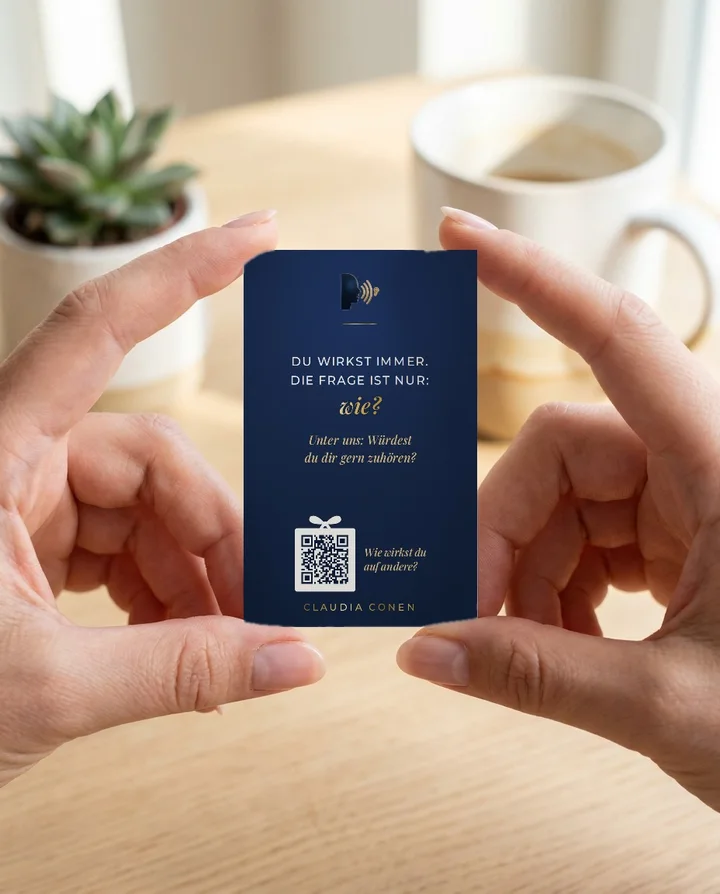
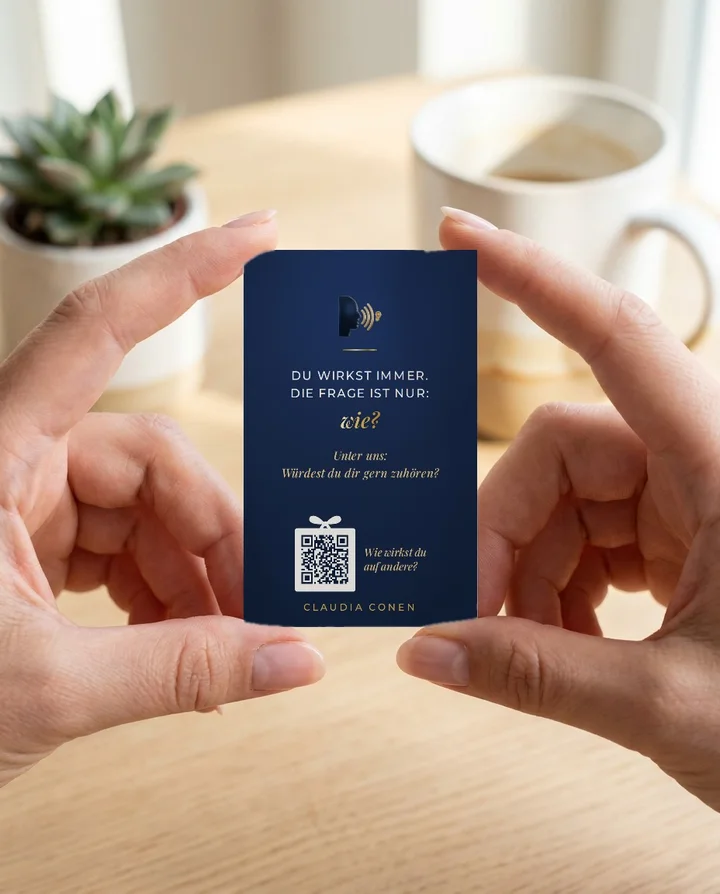
Magnet-Karten: Satz nach Sinneinheiten, ruhige Blockmitte

Changed region(s): [[0.3972, 0.302, 0.6111, 0.5436]]

diff --git a/magnet.html b/magnet.html
@@ -46,19 +46,19 @@ h1 em,h2 em{font:italic 600 1.06em/1 var(--ff-a);color:var(--gold-dunkel)}
 
 .mag{position:relative;width:calc(55*var(--mm));height:calc(85*var(--mm));overflow:hidden;box-sizing:border-box;
  background:radial-gradient(120% 80% at 50% 18%,#22396A 0%,#1A2B4C 48%,#13233F 100%);color:#fff;text-align:center;
- display:flex;flex-direction:column;align-items:center;padding:calc(5*var(--mm)) calc(4*var(--mm)) 0}
-.mag .ic{width:calc(9*var(--mm));height:calc(9*var(--mm));object-fit:contain;flex:0 0 auto}
-.mag .strich{width:calc(8*var(--mm));height:calc(.3*var(--mm));background:linear-gradient(105deg,#8E6A22 0%,#C9A447 18%,#FFF1C1 38%,#E4BC5D 50%,#9A7224 72%,#E9CF7E 88%,#8E6A22 100%);margin:calc(2.6*var(--mm)) 0 0;flex:0 0 auto}
-.mag .text{flex:1 1 auto;display:flex;flex-direction:column;justify-content:center;padding-bottom:calc(30*var(--mm))}
+ display:flex;flex-direction:column;align-items:center;padding:calc(4*var(--mm)) calc(4*var(--mm)) 0}
+.mag .ic{width:calc(10*var(--mm));height:calc(10*var(--mm));object-fit:contain;flex:0 0 auto}
+.mag .strich{width:calc(8*var(--mm));height:calc(.3*var(--mm));flex:0 0 auto;background:linear-gradient(105deg,#8E6A22 0%,#C9A447 18%,#FFF1C1 38%,#E4BC5D 50%,#9A7224 72%,#E9CF7E 88%,#8E6A22 100%);margin:calc(2.4*var(--mm)) 0 calc(3.6*var(--mm))}
+.mag .text{flex:1 1 auto;display:flex;flex-direction:column;align-items:center;justify-content:center;padding-bottom:calc(27*var(--mm))}
 .mag .z{margin:0;font:500 calc(2.8*var(--mm))/1.45 Montserrat,sans-serif;letter-spacing:.07em;text-transform:uppercase}
 .mag .z>b{display:block;font-weight:inherit;white-space:nowrap}
-.mag .gd{display:block;margin-top:calc(.8*var(--mm));font:italic 600 calc(5*var(--mm))/1.12 'Playfair Display',Georgia,serif;letter-spacing:0;text-transform:none;color:#D4AF37;text-wrap:balance}
+.mag .gd{display:block;margin-top:calc(1.2*var(--mm));font:italic 600 calc(4.8*var(--mm))/1.14 'Playfair Display',Georgia,serif;letter-spacing:0;text-transform:none;color:#D4AF37;}
 .mag .gd{background:linear-gradient(105deg,#8E6A22 0%,#C9A447 18%,#FFF1C1 38%,#E4BC5D 50%,#9A7224 72%,#E9CF7E 88%,#8E6A22 100%);-webkit-background-clip:text;background-clip:text;color:transparent;-webkit-box-decoration-break:clone;box-decoration-break:clone;filter:drop-shadow(0 calc(.15*var(--mm)) calc(.2*var(--mm)) rgba(0,0,0,.35))}
-.mag .t{margin:calc(3.2*var(--mm)) 0 0;font:italic 500 calc(2.8*var(--mm))/1.35 'Playfair Display',Georgia,serif;color:#EBD197;text-wrap:balance}
+.mag .t{margin:calc(3.4*var(--mm)) 0 0;font:italic 500 calc(2.7*var(--mm))/1.4 'Playfair Display',Georgia,serif;color:#EBD197;}
 .mag .qr{position:absolute;left:0;right:0;bottom:calc(9*var(--mm));display:flex;justify-content:center;align-items:center;gap:calc(2*var(--mm))}
 .mag .qr span{text-align:left;font:italic 500 calc(2.5*var(--mm))/1.25 'Playfair Display',Georgia,serif;color:#EBD197}
 .mag .fuss{position:absolute;left:0;right:0;bottom:calc(3.5*var(--mm));font:500 calc(2.2*var(--mm))/1 Montserrat,sans-serif;letter-spacing:.24em;color:#D4AF37}
-.mag .fuss span{background:linear-gradient(105deg,#8E6A22 0%,#C9A447 18%,#FFF1C1 38%,#E4BC5D 50%,#9A7224 72%,#E9CF7E 88%,#8E6A22 100%);-webkit-background-clip:text;background-clip:text;color:transparent}
+.mag .fuss span{color:#D9B65A}
 .mag .qr{bottom:calc(8.2*var(--mm))}
 .mag .qr i{display:block;position:relative;padding:calc(.9*var(--mm));background:#FDFBF7;border-radius:calc(.6*var(--mm))}
 .mag .qr svg{width:calc(12.5*var(--mm));height:calc(12.5*var(--mm));display:block}
@@ -115,7 +115,7 @@ footer{padding:22px 0;font-size:13px;letter-spacing:.06em;border-top:1px solid v
  </div>
 </div></section>
 
-<div class="band" id="band" tabindex="0" aria-label="Alle Sprüche, laufen langsam durch. Zum Anhalten mit der Maus darüberfahren."><div class="spur"><article class="slot" data-audio="magnet-dateien/audio/01.m4a" data-nr="01"><div class="grp">Mit Herz</div><div class="mag"><img class="ic" src="magnet-dateien/schritt-5.webp" alt=""><div class="strich"></div><div class="text"><p class="z"><b>Du wirkst immer.</b><b>Die Frage ist nur:</b><span class="gd">wie?</span></p><p class="t">Unter uns: Würdest du dir gern zuhören?</p></div><div class="qr"><i><svg class="schleife" viewBox="0 0 40 16" aria-hidden="true"><path fill="#FDFBF7" d="M20 11C15 4 6 1 5 6.5C4.3 10.5 12 12 20 11ZM20 11C25 4 34 1 35 6.5C35.7 10.5 28 12 20 11ZM17.6 10.6 13.8 16h3.4l2.8-4.2ZM22.4 10.6 26.2 16h-3.4L20 11.8Z"/><circle cx="20" cy="11" r="2.3" fill="#FDFBF7"/></svg><svg viewBox="0 0 33 33"><use href="#qr01"/></svg></i><span>Wie wirkst du<br>auf andere?</span></div><div class="fuss"><span>CLAUDIA CONEN</span></div></div></article><article class="slot" data-audio="magnet-dateien/audio/02.m4a" data-nr="02"><div class="grp">Mit Herz</div><div class="mag lang"><img class="ic" src="magnet-dateien/botschaft.webp" alt=""><div class="strich"></div><div class="text"><p class="z"><b>Was passiert,</b><b>wenn du mit mir</b><b>redest statt</b><b>zu scrollen?</b><span class="gd">Ich weiß es auch nicht.</span></p><p class="t">Vorsicht: Es könnte ein gutes Gespräch werden.</p></div><div class="qr"><i><svg class="schleife" viewBox="0 0 40 16" aria-hidden="true"><path fill="#FDFBF7" d="M20 11C15 4 6 1 5 6.5C4.3 10.5 12 12 20 11ZM20 11C25 4 34 1 35 6.5C35.7 10.5 28 12 20 11ZM17.6 10.6 13.8 16h3.4l2.8-4.2ZM22.4 10.6 26.2 16h-3.4L20 11.8Z"/><circle cx="20" cy="11" r="2.3" fill="#FDFBF7"/></svg><svg viewBox="0 0 33 33"><use href="#qr02"/></svg></i><span>Wie wirkst du<br>auf andere?</span></div><div class="fuss"><span>CLAUDIA CONEN</span></div></div></article><article class="slot" data-audio="magnet-dateien/audio/03.m4a" data-nr="03"><div class="grp">Mit Herz</div><div class="mag"><img class="ic" src="magnet-dateien/schritt-1.webp" alt=""><div class="strich"></div><div class="text"><p class="z"><b>Stell dir vor,</b><b>du bleibst für immer</b><b>in meinem Kopf.</b><span class="gd">Genau so, wie du gerade redest.</span></p><p class="t">Vorsicht: Du könntest begeistern. Oder eben nicht.</p></div><div class="qr"><i><svg class="schleife" viewBox="0 0 40 16" aria-hidden="true"><path fill="#FDFBF7" d="M20 11C15 4 6 1 5 6.5C4.3 10.5 12 12 20 11ZM20 11C25 4 34 1 35 6.5C35.7 10.5 28 12 20 11ZM17.6 10.6 13.8 16h3.4l2.8-4.2ZM22.4 10.6 26.2 16h-3.4L20 11.8Z"/><circle cx="20" cy="11" r="2.3" fill="#FDFBF7"/></svg><svg viewBox="0 0 33 33"><use href="#qr03"/></svg></i><span>Wie wirkst du<br>auf andere?</span></div><div class="fuss"><span>CLAUDIA CONEN</span></div></div></article><article class="slot" data-audio="magnet-dateien/audio/04.m4a" data-nr="04"><div class="grp">Mit Herz</div><div class="mag"><img class="ic" src="magnet-dateien/schritt-7.webp" alt=""><div class="strich"></div><div class="text"><p class="z"><b>Sei so freundlich</b><b>wie deine KI.</b><span class="gd">Dann reden wir.</span></p><p class="t">Vorsicht: Menschen merken den Unterschied.</p></div><div class="qr"><i><svg class="schleife" viewBox="0 0 40 16" aria-hidden="true"><path fill="#FDFBF7" d="M20 11C15 4 6 1 5 6.5C4.3 10.5 12 12 20 11ZM20 11C25 4 34 1 35 6.5C35.7 10.5 28 12 20 11ZM17.6 10.6 13.8 16h3.4l2.8-4.2ZM22.4 10.6 26.2 16h-3.4L20 11.8Z"/><circle cx="20" cy="11" r="2.3" fill="#FDFBF7"/></svg><svg viewBox="0 0 33 33"><use href="#qr04"/></svg></i><span>Wie wirkst du<br>auf andere?</span></div><div class="fuss"><span>CLAUDIA CONEN</span></div></div></article><article class="slot" data-audio="magnet-dateien/audio/05.m4a" data-nr="05"><div class="grp">Mit Herz</div><div class="mag"><img class="ic" src="magnet-dateien/schritt-3.webp" alt=""><div class="strich"></div><div class="text"><p class="z"><b>Was würdest du tun,</b><b>wenn du einzigartig</b><b>auf dieser Welt wärst?</b><span class="gd">Dann mach’s doch.</span></p><p class="t">Vorsicht: Du bist es schon.</p></div><div class="qr"><i><svg class="schleife" viewBox="0 0 40 16" aria-hidden="true"><path fill="#FDFBF7" d="M20 11C15 4 6 1 5 6.5C4.3 10.5 12 12 20 11ZM20 11C25 4 34 1 35 6.5C35.7 10.5 28 12 20 11ZM17.6 10.6 13.8 16h3.4l2.8-4.2ZM22.4 10.6 26.2 16h-3.4L20 11.8Z"/><circle cx="20" cy="11" r="2.3" fill="#FDFBF7"/></svg><svg viewBox="0 0 33 33"><use href="#qr05"/></svg></i><span>Wie wirkst du<br>auf andere?</span></div><div class="fuss"><span>CLAUDIA CONEN</span></div></div></article><article class="slot" data-audio="magnet-dateien/audio/06.m4a" data-nr="06"><div class="grp">Mit Herz</div><div class="mag"><img class="ic" src="magnet-dateien/schritt-8.webp" alt=""><div class="strich"></div><div class="text"><p class="z"><b>Menschen haben</b><span class="gd">keine Reset-Taste.</span></p><p class="t">Also: Bitte freundlich.</p></div><div class="qr"><i><svg class="schleife" viewBox="0 0 40 16" aria-hidden="true"><path fill="#FDFBF7" d="M20 11C15 4 6 1 5 6.5C4.3 10.5 12 12 20 11ZM20 11C25 4 34 1 35 6.5C35.7 10.5 28 12 20 11ZM17.6 10.6 13.8 16h3.4l2.8-4.2ZM22.4 10.6 26.2 16h-3.4L20 11.8Z"/><circle cx="20" cy="11" r="2.3" fill="#FDFBF7"/></svg><svg viewBox="0 0 33 33"><use href="#qr06"/></svg></i><span>Wie wirkst du<br>auf andere?</span></div><div class="fuss"><span>CLAUDIA CONEN</span></div></div></article><article class="slot" data-audio="magnet-dateien/audio/07.m4a" data-nr="07"><div class="grp">Mit Biss</div><div class="mag"><img class="ic" src="magnet-dateien/geschenk.webp" alt=""><div class="strich"></div><div class="text"><p class="z"><b>Kompetenz: vorhanden.</b><b>Wirkung:</b><span class="gd">wird nachgeliefert.</span></p><p class="t">Vorsicht: Lieferzeit unbekannt.</p></div><div class="qr"><i><svg class="schleife" viewBox="0 0 40 16" aria-hidden="true"><path fill="#FDFBF7" d="M20 11C15 4 6 1 5 6.5C4.3 10.5 12 12 20 11ZM20 11C25 4 34 1 35 6.5C35.7 10.5 28 12 20 11ZM17.6 10.6 13.8 16h3.4l2.8-4.2ZM22.4 10.6 26.2 16h-3.4L20 11.8Z"/><circle cx="20" cy="11" r="2.3" fill="#FDFBF7"/></svg><svg viewBox="0 0 33 33"><use href="#qr07"/></svg></i><span>Wie wirkst du<br>auf andere?</span></div><div class="fuss"><span>CLAUDIA CONEN</span></div></div></article><article class="slot" data-audio="magnet-dateien/audio/08.m4a" data-nr="08"><div class="grp">Mit Biss</div><div class="mag"><img class="ic" src="magnet-dateien/ki.webp" alt=""><div class="strich"></div><div class="text"><p class="z"><b>Du klingst</b><b>wie ein Prompt.</b><span class="gd">Nur nicht so freundlich.</span></p></div><div class="qr"><i><svg class="schleife" viewBox="0 0 40 16" aria-hidden="true"><path fill="#FDFBF7" d="M20 11C15 4 6 1 5 6.5C4.3 10.5 12 12 20 11ZM20 11C25 4 34 1 35 6.5C35.7 10.5 28 12 20 11ZM17.6 10.6 13.8 16h3.4l2.8-4.2ZM22.4 10.6 26.2 16h-3.4L20 11.8Z"/><circle cx="20" cy="11" r="2.3" fill="#FDFBF7"/></svg><svg viewBox="0 0 33 33"><use href="#qr08"/></svg></i><span>Wie wirkst du<br>auf andere?</span></div><div class="fuss"><span>CLAUDIA CONEN</span></div></div></article><article class="slot" data-audio="magnet-dateien/audio/09.m4a" data-nr="09"><div class="grp">Mit Biss</div><div class="mag"><img class="ic" src="magnet-dateien/schritt-9.webp" alt=""><div class="strich"></div><div class="text"><p class="z"><b>Dein Pitch</b><b>war super.</b><span class="gd">Hat nur keiner verstanden.</span></p></div><div class="qr"><i><svg class="schleife" viewBox="0 0 40 16" aria-hidden="true"><path fill="#FDFBF7" d="M20 11C15 4 6 1 5 6.5C4.3 10.5 12 12 20 11ZM20 11C25 4 34 1 35 6.5C35.7 10.5 28 12 20 11ZM17.6 10.6 13.8 16h3.4l2.8-4.2ZM22.4 10.6 26.2 16h-3.4L20 11.8Z"/><circle cx="20" cy="11" r="2.3" fill="#FDFBF7"/></svg><svg viewBox="0 0 33 33"><use href="#qr09"/></svg></i><span>Wie wirkst du<br>auf andere?</span></div><div class="fuss"><span>CLAUDIA CONEN</span></div></div></article><article class="slot" data-audio="magnet-dateien/audio/10.m4a" data-nr="10"><div class="grp">Mit Biss</div><div class="mag"><img class="ic" src="magnet-dateien/praesenz.webp" alt=""><div class="strich"></div><div class="text"><p class="z"><b>Kamera an,</b><b>Persönlichkeit aus?</b><span class="gd">Warum redest du jetzt so anders?</span></p></div><div class="qr"><i><svg class="schleife" viewBox="0 0 40 16" aria-hidden="true"><path fill="#FDFBF7" d="M20 11C15 4 6 1 5 6.5C4.3 10.5 12 12 20 11ZM20 11C25 4 34 1 35 6.5C35.7 10.5 28 12 20 11ZM17.6 10.6 13.8 16h3.4l2.8-4.2ZM22.4 10.6 26.2 16h-3.4L20 11.8Z"/><circle cx="20" cy="11" r="2.3" fill="#FDFBF7"/></svg><svg viewBox="0 0 33 33"><use href="#qr10"/></svg></i><span>Wie wirkst du<br>auf andere?</span></div><div class="fuss"><span>CLAUDIA CONEN</span></div></div></article><article class="slot" data-audio="magnet-dateien/audio/01.m4a" data-nr="01" aria-hidden="true"><div class="grp">Mit Herz</div><div class="mag"><img class="ic" src="magnet-dateien/schritt-5.webp" alt=""><div class="strich"></div><div class="text"><p class="z"><b>Du wirkst immer.</b><b>Die Frage ist nur:</b><span class="gd">wie?</span></p><p class="t">Unter uns: Würdest du dir gern zuhören?</p></div><div class="qr"><i><svg class="schleife" viewBox="0 0 40 16" aria-hidden="true"><path fill="#FDFBF7" d="M20 11C15 4 6 1 5 6.5C4.3 10.5 12 12 20 11ZM20 11C25 4 34 1 35 6.5C35.7 10.5 28 12 20 11ZM17.6 10.6 13.8 16h3.4l2.8-4.2ZM22.4 10.6 26.2 16h-3.4L20 11.8Z"/><circle cx="20" cy="11" r="2.3" fill="#FDFBF7"/></svg><svg viewBox="0 0 33 33"><use href="#qr01"/></svg></i><span>Wie wirkst du<br>auf andere?</span></div><div class="fuss"><span>CLAUDIA CONEN</span></div></div></article><article class="slot" data-audio="magnet-dateien/audio/02.m4a" data-nr="02" aria-hidden="true"><div class="grp">Mit Herz</div><div class="mag lang"><img class="ic" src="magnet-dateien/botschaft.webp" alt=""><div class="strich"></div><div class="text"><p class="z"><b>Was passiert,</b><b>wenn du mit mir</b><b>redest statt</b><b>zu scrollen?</b><span class="gd">Ich weiß es auch nicht.</span></p><p class="t">Vorsicht: Es könnte ein gutes Gespräch werden.</p></div><div class="qr"><i><svg class="schleife" viewBox="0 0 40 16" aria-hidden="true"><path fill="#FDFBF7" d="M20 11C15 4 6 1 5 6.5C4.3 10.5 12 12 20 11ZM20 11C25 4 34 1 35 6.5C35.7 10.5 28 12 20 11ZM17.6 10.6 13.8 16h3.4l2.8-4.2ZM22.4 10.6 26.2 16h-3.4L20 11.8Z"/><circle cx="20" cy="11" r="2.3" fill="#FDFBF7"/></svg><svg viewBox="0 0 33 33"><use href="#qr02"/></svg></i><span>Wie wirkst du<br>auf andere?</span></div><div class="fuss"><span>CLAUDIA CONEN</span></div></div></article><article class="slot" data-audio="magnet-dateien/audio/03.m4a" data-nr="03" aria-hidden="true"><div class="grp">Mit Herz</div><div class="mag"><img class="ic" src="magnet-dateien/schritt-1.webp" alt=""><div class="strich"></div><div class="text"><p class="z"><b>Stell dir vor,</b><b>du bleibst für immer</b><b>in meinem Kopf.</b><span class="gd">Genau so, wie du gerade redest.</span></p><p class="t">Vorsicht: Du könntest begeistern. Oder eben nicht.</p></div><div class="qr"><i><svg class="schleife" viewBox="0 0 40 16" aria-hidden="true"><path fill="#FDFBF7" d="M20 11C15 4 6 1 5 6.5C4.3 10.5 12 12 20 11ZM20 11C25 4 34 1 35 6.5C35.7 10.5 28 12 20 11ZM17.6 10.6 13.8 16h3.4l2.8-4.2ZM22.4 10.6 26.2 16h-3.4L20 11.8Z"/><circle cx="20" cy="11" r="2.3" fill="#FDFBF7"/></svg><svg viewBox="0 0 33 33"><use href="#qr03"/></svg></i><span>Wie wirkst du<br>auf andere?</span></div><div class="fuss"><span>CLAUDIA CONEN</span></div></div></article><article class="slot" data-audio="magnet-dateien/audio/04.m4a" data-nr="04" aria-hidden="true"><div class="grp">Mit Herz</div><div class="mag"><img class="ic" src="magnet-dateien/schritt-7.webp" alt=""><div class="strich"></div><div class="text"><p class="z"><b>Sei so freundlich</b><b>wie deine KI.</b><span class="gd">Dann reden wir.</span></p><p class="t">Vorsicht: Menschen merken den Unterschied.</p></div><div class="qr"><i><svg class="schleife" viewBox="0 0 40 16" aria-hidden="true"><path fill="#FDFBF7" d="M20 11C15 4 6 1 5 6.5C4.3 10.5 12 12 20 11ZM20 11C25 4 34 1 35 6.5C35.7 10.5 28 12 20 11ZM17.6 10.6 13.8 16h3.4l2.8-4.2ZM22.4 10.6 26.2 16h-3.4L20 11.8Z"/><circle cx="20" cy="11" r="2.3" fill="#FDFBF7"/></svg><svg viewBox="0 0 33 33"><use href="#qr04"/></svg></i><span>Wie wirkst du<br>auf andere?</span></div><div class="fuss"><span>CLAUDIA CONEN</span></div></div></article><article class="slot" data-audio="magnet-dateien/audio/05.m4a" data-nr="05" aria-hidden="true"><div class="grp">Mit Herz</div><div class="mag"><img class="ic" src="magnet-dateien/schritt-3.webp" alt=""><div class="strich"></div><div class="text"><p class="z"><b>Was würdest du tun,</b><b>wenn du einzigartig</b><b>auf dieser Welt wärst?</b><span class="gd">Dann mach’s doch.</span></p><p class="t">Vorsicht: Du bist es schon.</p></div><div class="qr"><i><svg class="schleife" viewBox="0 0 40 16" aria-hidden="true"><path fill="#FDFBF7" d="M20 11C15 4 6 1 5 6.5C4.3 10.5 12 12 20 11ZM20 11C25 4 34 1 35 6.5C35.7 10.5 28 12 20 11ZM17.6 10.6 13.8 16h3.4l2.8-4.2ZM22.4 10.6 26.2 16h-3.4L20 11.8Z"/><circle cx="20" cy="11" r="2.3" fill="#FDFBF7"/></svg><svg viewBox="0 0 33 33"><use href="#qr05"/></svg></i><span>Wie wirkst du<br>auf andere?</span></div><div class="fuss"><span>CLAUDIA CONEN</span></div></div></article><article class="slot" data-audio="magnet-dateien/audio/06.m4a" data-nr="06" aria-hidden="true"><div class="grp">Mit Herz</div><div class="mag"><img class="ic" src="magnet-dateien/schritt-8.webp" alt=""><div class="strich"></div><div class="text"><p class="z"><b>Menschen haben</b><span class="gd">keine Reset-Taste.</span></p><p class="t">Also: Bitte freundlich.</p></div><div class="qr"><i><svg class="schleife" viewBox="0 0 40 16" aria-hidden="true"><path fill="#FDFBF7" d="M20 11C15 4 6 1 5 6.5C4.3 10.5 12 12 20 11ZM20 11C25 4 34 1 35 6.5C35.7 10.5 28 12 20 11ZM17.6 10.6 13.8 16h3.4l2.8-4.2ZM22.4 10.6 26.2 16h-3.4L20 11.8Z"/><circle cx="20" cy="11" r="2.3" fill="#FDFBF7"/></svg><svg viewBox="0 0 33 33"><use href="#qr06"/></svg></i><span>Wie wirkst du<br>auf andere?</span></div><div class="fuss"><span>CLAUDIA CONEN</span></div></div></article><article class="slot" data-audio="magnet-dateien/audio/07.m4a" data-nr="07" aria-hidden="true"><div class="grp">Mit Biss</div><div class="mag"><img class="ic" src="magnet-dateien/geschenk.webp" alt=""><div class="strich"></div><div class="text"><p class="z"><b>Kompetenz: vorhanden.</b><b>Wirkung:</b><span class="gd">wird nachgeliefert.</span></p><p class="t">Vorsicht: Lieferzeit unbekannt.</p></div><div class="qr"><i><svg class="schleife" viewBox="0 0 40 16" aria-hidden="true"><path fill="#FDFBF7" d="M20 11C15 4 6 1 5 6.5C4.3 10.5 12 12 20 11ZM20 11C25 4 34 1 35 6.5C35.7 10.5 28 12 20 11ZM17.6 10.6 13.8 16h3.4l2.8-4.2ZM22.4 10.6 26.2 16h-3.4L20 11.8Z"/><circle cx="20" cy="11" r="2.3" fill="#FDFBF7"/></svg><svg viewBox="0 0 33 33"><use href="#qr07"/></svg></i><span>Wie wirkst du<br>auf andere?</span></div><div class="fuss"><span>CLAUDIA CONEN</span></div></div></article><article class="slot" data-audio="magnet-dateien/audio/08.m4a" data-nr="08" aria-hidden="true"><div class="grp">Mit Biss</div><div class="mag"><img class="ic" src="magnet-dateien/ki.webp" alt=""><div class="strich"></div><div class="text"><p class="z"><b>Du klingst</b><b>wie ein Prompt.</b><span class="gd">Nur nicht so freundlich.</span></p></div><div class="qr"><i><svg class="schleife" viewBox="0 0 40 16" aria-hidden="true"><path fill="#FDFBF7" d="M20 11C15 4 6 1 5 6.5C4.3 10.5 12 12 20 11ZM20 11C25 4 34 1 35 6.5C35.7 10.5 28 12 20 11ZM17.6 10.6 13.8 16h3.4l2.8-4.2ZM22.4 10.6 26.2 16h-3.4L20 11.8Z"/><circle cx="20" cy="11" r="2.3" fill="#FDFBF7"/></svg><svg viewBox="0 0 33 33"><use href="#qr08"/></svg></i><span>Wie wirkst du<br>auf andere?</span></div><div class="fuss"><span>CLAUDIA CONEN</span></div></div></article><article class="slot" data-audio="magnet-dateien/audio/09.m4a" data-nr="09" aria-hidden="true"><div class="grp">Mit Biss</div><div class="mag"><img class="ic" src="magnet-dateien/schritt-9.webp" alt=""><div class="strich"></div><div class="text"><p class="z"><b>Dein Pitch</b><b>war super.</b><span class="gd">Hat nur keiner verstanden.</span></p></div><div class="qr"><i><svg class="schleife" viewBox="0 0 40 16" aria-hidden="true"><path fill="#FDFBF7" d="M20 11C15 4 6 1 5 6.5C4.3 10.5 12 12 20 11ZM20 11C25 4 34 1 35 6.5C35.7 10.5 28 12 20 11ZM17.6 10.6 13.8 16h3.4l2.8-4.2ZM22.4 10.6 26.2 16h-3.4L20 11.8Z"/><circle cx="20" cy="11" r="2.3" fill="#FDFBF7"/></svg><svg viewBox="0 0 33 33"><use href="#qr09"/></svg></i><span>Wie wirkst du<br>auf andere?</span></div><div class="fuss"><span>CLAUDIA CONEN</span></div></div></article><article class="slot" data-audio="magnet-dateien/audio/10.m4a" data-nr="10" aria-hidden="true"><div class="grp">Mit Biss</div><div class="mag"><img class="ic" src="magnet-dateien/praesenz.webp" alt=""><div class="strich"></div><div class="text"><p class="z"><b>Kamera an,</b><b>Persönlichkeit aus?</b><span class="gd">Warum redest du jetzt so anders?</span></p></div><div class="qr"><i><svg class="schleife" viewBox="0 0 40 16" aria-hidden="true"><path fill="#FDFBF7" d="M20 11C15 4 6 1 5 6.5C4.3 10.5 12 12 20 11ZM20 11C25 4 34 1 35 6.5C35.7 10.5 28 12 20 11ZM17.6 10.6 13.8 16h3.4l2.8-4.2ZM22.4 10.6 26.2 16h-3.4L20 11.8Z"/><circle cx="20" cy="11" r="2.3" fill="#FDFBF7"/></svg><svg viewBox="0 0 33 33"><use href="#qr10"/></svg></i><span>Wie wirkst du<br>auf andere?</span></div><div class="fuss"><span>CLAUDIA CONEN</span></div></div></article></div></div>
+<div class="band" id="band" tabindex="0" aria-label="Alle Sprüche, laufen langsam durch. Zum Anhalten mit der Maus darüberfahren."><div class="spur"><article class="slot" data-audio="magnet-dateien/audio/01.m4a" data-nr="01"><div class="grp">Mit Herz</div><div class="mag"><div class="text"><img class="ic" src="magnet-dateien/schritt-5.webp" alt=""><div class="strich"></div><p class="z"><b>Du wirkst immer.</b><b>Die Frage ist nur:</b><span class="gd">wie?</span></p><p class="t">Unter uns:<br>Würdest du dir gern zuhören?</p></div><div class="qr"><i><svg class="schleife" viewBox="0 0 40 16" aria-hidden="true"><path fill="#FDFBF7" d="M20 11C15 4 6 1 5 6.5C4.3 10.5 12 12 20 11ZM20 11C25 4 34 1 35 6.5C35.7 10.5 28 12 20 11ZM17.6 10.6 13.8 16h3.4l2.8-4.2ZM22.4 10.6 26.2 16h-3.4L20 11.8Z"/><circle cx="20" cy="11" r="2.3" fill="#FDFBF7"/></svg><svg viewBox="0 0 33 33"><use href="#qr01"/></svg></i><span>Wie wirkst du<br>auf andere?</span></div><div class="fuss"><span>CLAUDIA CONEN</span></div></div></article><article class="slot" data-audio="magnet-dateien/audio/02.m4a" data-nr="02"><div class="grp">Mit Herz</div><div class="mag"><div class="text"><img class="ic" src="magnet-dateien/botschaft.webp" alt=""><div class="strich"></div><p class="z"><b>Was passiert,</b><b>wenn du mit mir redest</b><b>statt zu scrollen?</b><span class="gd">Ich weiß es<br>auch nicht.</span></p><p class="t">Vorsicht: Es könnte<br>ein gutes Gespräch werden.</p></div><div class="qr"><i><svg class="schleife" viewBox="0 0 40 16" aria-hidden="true"><path fill="#FDFBF7" d="M20 11C15 4 6 1 5 6.5C4.3 10.5 12 12 20 11ZM20 11C25 4 34 1 35 6.5C35.7 10.5 28 12 20 11ZM17.6 10.6 13.8 16h3.4l2.8-4.2ZM22.4 10.6 26.2 16h-3.4L20 11.8Z"/><circle cx="20" cy="11" r="2.3" fill="#FDFBF7"/></svg><svg viewBox="0 0 33 33"><use href="#qr02"/></svg></i><span>Wie wirkst du<br>auf andere?</span></div><div class="fuss"><span>CLAUDIA CONEN</span></div></div></article><article class="slot" data-audio="magnet-dateien/audio/03.m4a" data-nr="03"><div class="grp">Mit Herz</div><div class="mag"><div class="text"><img class="ic" src="magnet-dateien/schritt-1.webp" alt=""><div class="strich"></div><p class="z"><b>Stell dir vor,</b><b>du bleibst für immer</b><b>in meinem Kopf.</b><span class="gd">Genau so,<br>wie du gerade redest.</span></p><p class="t">Vorsicht: Du könntest begeistern.<br>Oder eben nicht.</p></div><div class="qr"><i><svg class="schleife" viewBox="0 0 40 16" aria-hidden="true"><path fill="#FDFBF7" d="M20 11C15 4 6 1 5 6.5C4.3 10.5 12 12 20 11ZM20 11C25 4 34 1 35 6.5C35.7 10.5 28 12 20 11ZM17.6 10.6 13.8 16h3.4l2.8-4.2ZM22.4 10.6 26.2 16h-3.4L20 11.8Z"/><circle cx="20" cy="11" r="2.3" fill="#FDFBF7"/></svg><svg viewBox="0 0 33 33"><use href="#qr03"/></svg></i><span>Wie wirkst du<br>auf andere?</span></div><div class="fuss"><span>CLAUDIA CONEN</span></div></div></article><article class="slot" data-audio="magnet-dateien/audio/04.m4a" data-nr="04"><div class="grp">Mit Herz</div><div class="mag"><div class="text"><img class="ic" src="magnet-dateien/schritt-7.webp" alt=""><div class="strich"></div><p class="z"><b>Sei so freundlich</b><b>wie deine KI.</b><span class="gd">Dann reden wir.</span></p><p class="t">Vorsicht:<br>Menschen merken den Unterschied.</p></div><div class="qr"><i><svg class="schleife" viewBox="0 0 40 16" aria-hidden="true"><path fill="#FDFBF7" d="M20 11C15 4 6 1 5 6.5C4.3 10.5 12 12 20 11ZM20 11C25 4 34 1 35 6.5C35.7 10.5 28 12 20 11ZM17.6 10.6 13.8 16h3.4l2.8-4.2ZM22.4 10.6 26.2 16h-3.4L20 11.8Z"/><circle cx="20" cy="11" r="2.3" fill="#FDFBF7"/></svg><svg viewBox="0 0 33 33"><use href="#qr04"/></svg></i><span>Wie wirkst du<br>auf andere?</span></div><div class="fuss"><span>CLAUDIA CONEN</span></div></div></article><article class="slot" data-audio="magnet-dateien/audio/05.m4a" data-nr="05"><div class="grp">Mit Herz</div><div class="mag"><div class="text"><img class="ic" src="magnet-dateien/schritt-3.webp" alt=""><div class="strich"></div><p class="z"><b>Was würdest du tun,</b><b>wenn du einzigartig</b><b>auf dieser Welt wärst?</b><span class="gd">Dann mach’s doch.</span></p><p class="t">Vorsicht: Du bist es schon.</p></div><div class="qr"><i><svg class="schleife" viewBox="0 0 40 16" aria-hidden="true"><path fill="#FDFBF7" d="M20 11C15 4 6 1 5 6.5C4.3 10.5 12 12 20 11ZM20 11C25 4 34 1 35 6.5C35.7 10.5 28 12 20 11ZM17.6 10.6 13.8 16h3.4l2.8-4.2ZM22.4 10.6 26.2 16h-3.4L20 11.8Z"/><circle cx="20" cy="11" r="2.3" fill="#FDFBF7"/></svg><svg viewBox="0 0 33 33"><use href="#qr05"/></svg></i><span>Wie wirkst du<br>auf andere?</span></div><div class="fuss"><span>CLAUDIA CONEN</span></div></div></article><article class="slot" data-audio="magnet-dateien/audio/06.m4a" data-nr="06"><div class="grp">Mit Herz</div><div class="mag"><div class="text"><img class="ic" src="magnet-dateien/schritt-8.webp" alt=""><div class="strich"></div><p class="z"><b>Menschen haben</b><span class="gd">keine Reset-Taste.</span></p><p class="t">Also: Bitte freundlich.</p></div><div class="qr"><i><svg class="schleife" viewBox="0 0 40 16" aria-hidden="true"><path fill="#FDFBF7" d="M20 11C15 4 6 1 5 6.5C4.3 10.5 12 12 20 11ZM20 11C25 4 34 1 35 6.5C35.7 10.5 28 12 20 11ZM17.6 10.6 13.8 16h3.4l2.8-4.2ZM22.4 10.6 26.2 16h-3.4L20 11.8Z"/><circle cx="20" cy="11" r="2.3" fill="#FDFBF7"/></svg><svg viewBox="0 0 33 33"><use href="#qr06"/></svg></i><span>Wie wirkst du<br>auf andere?</span></div><div class="fuss"><span>CLAUDIA CONEN</span></div></div></article><article class="slot" data-audio="magnet-dateien/audio/07.m4a" data-nr="07"><div class="grp">Mit Biss</div><div class="mag"><div class="text"><img class="ic" src="magnet-dateien/geschenk.webp" alt=""><div class="strich"></div><p class="z"><b>Kompetenz: vorhanden.</b><b>Wirkung:</b><span class="gd">wird nachgeliefert.</span></p><p class="t">Vorsicht: Lieferzeit unbekannt.</p></div><div class="qr"><i><svg class="schleife" viewBox="0 0 40 16" aria-hidden="true"><path fill="#FDFBF7" d="M20 11C15 4 6 1 5 6.5C4.3 10.5 12 12 20 11ZM20 11C25 4 34 1 35 6.5C35.7 10.5 28 12 20 11ZM17.6 10.6 13.8 16h3.4l2.8-4.2ZM22.4 10.6 26.2 16h-3.4L20 11.8Z"/><circle cx="20" cy="11" r="2.3" fill="#FDFBF7"/></svg><svg viewBox="0 0 33 33"><use href="#qr07"/></svg></i><span>Wie wirkst du<br>auf andere?</span></div><div class="fuss"><span>CLAUDIA CONEN</span></div></div></article><article class="slot" data-audio="magnet-dateien/audio/08.m4a" data-nr="08"><div class="grp">Mit Biss</div><div class="mag"><div class="text"><img class="ic" src="magnet-dateien/ki.webp" alt=""><div class="strich"></div><p class="z"><b>Du klingst</b><b>wie ein Prompt.</b><span class="gd">Nur nicht<br>so freundlich.</span></p></div><div class="qr"><i><svg class="schleife" viewBox="0 0 40 16" aria-hidden="true"><path fill="#FDFBF7" d="M20 11C15 4 6 1 5 6.5C4.3 10.5 12 12 20 11ZM20 11C25 4 34 1 35 6.5C35.7 10.5 28 12 20 11ZM17.6 10.6 13.8 16h3.4l2.8-4.2ZM22.4 10.6 26.2 16h-3.4L20 11.8Z"/><circle cx="20" cy="11" r="2.3" fill="#FDFBF7"/></svg><svg viewBox="0 0 33 33"><use href="#qr08"/></svg></i><span>Wie wirkst du<br>auf andere?</span></div><div class="fuss"><span>CLAUDIA CONEN</span></div></div></article><article class="slot" data-audio="magnet-dateien/audio/09.m4a" data-nr="09"><div class="grp">Mit Biss</div><div class="mag"><div class="text"><img class="ic" src="magnet-dateien/schritt-9.webp" alt=""><div class="strich"></div><p class="z"><b>Dein Pitch war super.</b><span class="gd">Hat nur keiner<br>verstanden.</span></p></div><div class="qr"><i><svg class="schleife" viewBox="0 0 40 16" aria-hidden="true"><path fill="#FDFBF7" d="M20 11C15 4 6 1 5 6.5C4.3 10.5 12 12 20 11ZM20 11C25 4 34 1 35 6.5C35.7 10.5 28 12 20 11ZM17.6 10.6 13.8 16h3.4l2.8-4.2ZM22.4 10.6 26.2 16h-3.4L20 11.8Z"/><circle cx="20" cy="11" r="2.3" fill="#FDFBF7"/></svg><svg viewBox="0 0 33 33"><use href="#qr09"/></svg></i><span>Wie wirkst du<br>auf andere?</span></div><div class="fuss"><span>CLAUDIA CONEN</span></div></div></article><article class="slot" data-audio="magnet-dateien/audio/10.m4a" data-nr="10"><div class="grp">Mit Biss</div><div class="mag"><div class="text"><img class="ic" src="magnet-dateien/praesenz.webp" alt=""><div class="strich"></div><p class="z"><b>Kamera an,</b><b>Persönlichkeit aus?</b><span class="gd">Warum redest du<br>jetzt so anders?</span></p></div><div class="qr"><i><svg class="schleife" viewBox="0 0 40 16" aria-hidden="true"><path fill="#FDFBF7" d="M20 11C15 4 6 1 5 6.5C4.3 10.5 12 12 20 11ZM20 11C25 4 34 1 35 6.5C35.7 10.5 28 12 20 11ZM17.6 10.6 13.8 16h3.4l2.8-4.2ZM22.4 10.6 26.2 16h-3.4L20 11.8Z"/><circle cx="20" cy="11" r="2.3" fill="#FDFBF7"/></svg><svg viewBox="0 0 33 33"><use href="#qr10"/></svg></i><span>Wie wirkst du<br>auf andere?</span></div><div class="fuss"><span>CLAUDIA CONEN</span></div></div></article><article class="slot" data-audio="magnet-dateien/audio/01.m4a" data-nr="01" aria-hidden="true"><div class="grp">Mit Herz</div><div class="mag"><div class="text"><img class="ic" src="magnet-dateien/schritt-5.webp" alt=""><div class="strich"></div><p class="z"><b>Du wirkst immer.</b><b>Die Frage ist nur:</b><span class="gd">wie?</span></p><p class="t">Unter uns:<br>Würdest du dir gern zuhören?</p></div><div class="qr"><i><svg class="schleife" viewBox="0 0 40 16" aria-hidden="true"><path fill="#FDFBF7" d="M20 11C15 4 6 1 5 6.5C4.3 10.5 12 12 20 11ZM20 11C25 4 34 1 35 6.5C35.7 10.5 28 12 20 11ZM17.6 10.6 13.8 16h3.4l2.8-4.2ZM22.4 10.6 26.2 16h-3.4L20 11.8Z"/><circle cx="20" cy="11" r="2.3" fill="#FDFBF7"/></svg><svg viewBox="0 0 33 33"><use href="#qr01"/></svg></i><span>Wie wirkst du<br>auf andere?</span></div><div class="fuss"><span>CLAUDIA CONEN</span></div></div></article><article class="slot" data-audio="magnet-dateien/audio/02.m4a" data-nr="02" aria-hidden="true"><div class="grp">Mit Herz</div><div class="mag"><div class="text"><img class="ic" src="magnet-dateien/botschaft.webp" alt=""><div class="strich"></div><p class="z"><b>Was passiert,</b><b>wenn du mit mir redest</b><b>statt zu scrollen?</b><span class="gd">Ich weiß es<br>auch nicht.</span></p><p class="t">Vorsicht: Es könnte<br>ein gutes Gespräch werden.</p></div><div class="qr"><i><svg class="schleife" viewBox="0 0 40 16" aria-hidden="true"><path fill="#FDFBF7" d="M20 11C15 4 6 1 5 6.5C4.3 10.5 12 12 20 11ZM20 11C25 4 34 1 35 6.5C35.7 10.5 28 12 20 11ZM17.6 10.6 13.8 16h3.4l2.8-4.2ZM22.4 10.6 26.2 16h-3.4L20 11.8Z"/><circle cx="20" cy="11" r="2.3" fill="#FDFBF7"/></svg><svg viewBox="0 0 33 33"><use href="#qr02"/></svg></i><span>Wie wirkst du<br>auf andere?</span></div><div class="fuss"><span>CLAUDIA CONEN</span></div></div></article><article class="slot" data-audio="magnet-dateien/audio/03.m4a" data-nr="03" aria-hidden="true"><div class="grp">Mit Herz</div><div class="mag"><div class="text"><img class="ic" src="magnet-dateien/schritt-1.webp" alt=""><div class="strich"></div><p class="z"><b>Stell dir vor,</b><b>du bleibst für immer</b><b>in meinem Kopf.</b><span class="gd">Genau so,<br>wie du gerade redest.</span></p><p class="t">Vorsicht: Du könntest begeistern.<br>Oder eben nicht.</p></div><div class="qr"><i><svg class="schleife" viewBox="0 0 40 16" aria-hidden="true"><path fill="#FDFBF7" d="M20 11C15 4 6 1 5 6.5C4.3 10.5 12 12 20 11ZM20 11C25 4 34 1 35 6.5C35.7 10.5 28 12 20 11ZM17.6 10.6 13.8 16h3.4l2.8-4.2ZM22.4 10.6 26.2 16h-3.4L20 11.8Z"/><circle cx="20" cy="11" r="2.3" fill="#FDFBF7"/></svg><svg viewBox="0 0 33 33"><use href="#qr03"/></svg></i><span>Wie wirkst du<br>auf andere?</span></div><div class="fuss"><span>CLAUDIA CONEN</span></div></div></article><article class="slot" data-audio="magnet-dateien/audio/04.m4a" data-nr="04" aria-hidden="true"><div class="grp">Mit Herz</div><div class="mag"><div class="text"><img class="ic" src="magnet-dateien/schritt-7.webp" alt=""><div class="strich"></div><p class="z"><b>Sei so freundlich</b><b>wie deine KI.</b><span class="gd">Dann reden wir.</span></p><p class="t">Vorsicht:<br>Menschen merken den Unterschied.</p></div><div class="qr"><i><svg class="schleife" viewBox="0 0 40 16" aria-hidden="true"><path fill="#FDFBF7" d="M20 11C15 4 6 1 5 6.5C4.3 10.5 12 12 20 11ZM20 11C25 4 34 1 35 6.5C35.7 10.5 28 12 20 11ZM17.6 10.6 13.8 16h3.4l2.8-4.2ZM22.4 10.6 26.2 16h-3.4L20 11.8Z"/><circle cx="20" cy="11" r="2.3" fill="#FDFBF7"/></svg><svg viewBox="0 0 33 33"><use href="#qr04"/></svg></i><span>Wie wirkst du<br>auf andere?</span></div><div class="fuss"><span>CLAUDIA CONEN</span></div></div></article><article class="slot" data-audio="magnet-dateien/audio/05.m4a" data-nr="05" aria-hidden="true"><div class="grp">Mit Herz</div><div class="mag"><div class="text"><img class="ic" src="magnet-dateien/schritt-3.webp" alt=""><div class="strich"></div><p class="z"><b>Was würdest du tun,</b><b>wenn du einzigartig</b><b>auf dieser Welt wärst?</b><span class="gd">Dann mach’s doch.</span></p><p class="t">Vorsicht: Du bist es schon.</p></div><div class="qr"><i><svg class="schleife" viewBox="0 0 40 16" aria-hidden="true"><path fill="#FDFBF7" d="M20 11C15 4 6 1 5 6.5C4.3 10.5 12 12 20 11ZM20 11C25 4 34 1 35 6.5C35.7 10.5 28 12 20 11ZM17.6 10.6 13.8 16h3.4l2.8-4.2ZM22.4 10.6 26.2 16h-3.4L20 11.8Z"/><circle cx="20" cy="11" r="2.3" fill="#FDFBF7"/></svg><svg viewBox="0 0 33 33"><use href="#qr05"/></svg></i><span>Wie wirkst du<br>auf andere?</span></div><div class="fuss"><span>CLAUDIA CONEN</span></div></div></article><article class="slot" data-audio="magnet-dateien/audio/06.m4a" data-nr="06" aria-hidden="true"><div class="grp">Mit Herz</div><div class="mag"><div class="text"><img class="ic" src="magnet-dateien/schritt-8.webp" alt=""><div class="strich"></div><p class="z"><b>Menschen haben</b><span class="gd">keine Reset-Taste.</span></p><p class="t">Also: Bitte freundlich.</p></div><div class="qr"><i><svg class="schleife" viewBox="0 0 40 16" aria-hidden="true"><path fill="#FDFBF7" d="M20 11C15 4 6 1 5 6.5C4.3 10.5 12 12 20 11ZM20 11C25 4 34 1 35 6.5C35.7 10.5 28 12 20 11ZM17.6 10.6 13.8 16h3.4l2.8-4.2ZM22.4 10.6 26.2 16h-3.4L20 11.8Z"/><circle cx="20" cy="11" r="2.3" fill="#FDFBF7"/></svg><svg viewBox="0 0 33 33"><use href="#qr06"/></svg></i><span>Wie wirkst du<br>auf andere?</span></div><div class="fuss"><span>CLAUDIA CONEN</span></div></div></article><article class="slot" data-audio="magnet-dateien/audio/07.m4a" data-nr="07" aria-hidden="true"><div class="grp">Mit Biss</div><div class="mag"><div class="text"><img class="ic" src="magnet-dateien/geschenk.webp" alt=""><div class="strich"></div><p class="z"><b>Kompetenz: vorhanden.</b><b>Wirkung:</b><span class="gd">wird nachgeliefert.</span></p><p class="t">Vorsicht: Lieferzeit unbekannt.</p></div><div class="qr"><i><svg class="schleife" viewBox="0 0 40 16" aria-hidden="true"><path fill="#FDFBF7" d="M20 11C15 4 6 1 5 6.5C4.3 10.5 12 12 20 11ZM20 11C25 4 34 1 35 6.5C35.7 10.5 28 12 20 11ZM17.6 10.6 13.8 16h3.4l2.8-4.2ZM22.4 10.6 26.2 16h-3.4L20 11.8Z"/><circle cx="20" cy="11" r="2.3" fill="#FDFBF7"/></svg><svg viewBox="0 0 33 33"><use href="#qr07"/></svg></i><span>Wie wirkst du<br>auf andere?</span></div><div class="fuss"><span>CLAUDIA CONEN</span></div></div></article><article class="slot" data-audio="magnet-dateien/audio/08.m4a" data-nr="08" aria-hidden="true"><div class="grp">Mit Biss</div><div class="mag"><div class="text"><img class="ic" src="magnet-dateien/ki.webp" alt=""><div class="strich"></div><p class="z"><b>Du klingst</b><b>wie ein Prompt.</b><span class="gd">Nur nicht<br>so freundlich.</span></p></div><div class="qr"><i><svg class="schleife" viewBox="0 0 40 16" aria-hidden="true"><path fill="#FDFBF7" d="M20 11C15 4 6 1 5 6.5C4.3 10.5 12 12 20 11ZM20 11C25 4 34 1 35 6.5C35.7 10.5 28 12 20 11ZM17.6 10.6 13.8 16h3.4l2.8-4.2ZM22.4 10.6 26.2 16h-3.4L20 11.8Z"/><circle cx="20" cy="11" r="2.3" fill="#FDFBF7"/></svg><svg viewBox="0 0 33 33"><use href="#qr08"/></svg></i><span>Wie wirkst du<br>auf andere?</span></div><div class="fuss"><span>CLAUDIA CONEN</span></div></div></article><article class="slot" data-audio="magnet-dateien/audio/09.m4a" data-nr="09" aria-hidden="true"><div class="grp">Mit Biss</div><div class="mag"><div class="text"><img class="ic" src="magnet-dateien/schritt-9.webp" alt=""><div class="strich"></div><p class="z"><b>Dein Pitch war super.</b><span class="gd">Hat nur keiner<br>verstanden.</span></p></div><div class="qr"><i><svg class="schleife" viewBox="0 0 40 16" aria-hidden="true"><path fill="#FDFBF7" d="M20 11C15 4 6 1 5 6.5C4.3 10.5 12 12 20 11ZM20 11C25 4 34 1 35 6.5C35.7 10.5 28 12 20 11ZM17.6 10.6 13.8 16h3.4l2.8-4.2ZM22.4 10.6 26.2 16h-3.4L20 11.8Z"/><circle cx="20" cy="11" r="2.3" fill="#FDFBF7"/></svg><svg viewBox="0 0 33 33"><use href="#qr09"/></svg></i><span>Wie wirkst du<br>auf andere?</span></div><div class="fuss"><span>CLAUDIA CONEN</span></div></div></article><article class="slot" data-audio="magnet-dateien/audio/10.m4a" data-nr="10" aria-hidden="true"><div class="grp">Mit Biss</div><div class="mag"><div class="text"><img class="ic" src="magnet-dateien/praesenz.webp" alt=""><div class="strich"></div><p class="z"><b>Kamera an,</b><b>Persönlichkeit aus?</b><span class="gd">Warum redest du<br>jetzt so anders?</span></p></div><div class="qr"><i><svg class="schleife" viewBox="0 0 40 16" aria-hidden="true"><path fill="#FDFBF7" d="M20 11C15 4 6 1 5 6.5C4.3 10.5 12 12 20 11ZM20 11C25 4 34 1 35 6.5C35.7 10.5 28 12 20 11ZM17.6 10.6 13.8 16h3.4l2.8-4.2ZM22.4 10.6 26.2 16h-3.4L20 11.8Z"/><circle cx="20" cy="11" r="2.3" fill="#FDFBF7"/></svg><svg viewBox="0 0 33 33"><use href="#qr10"/></svg></i><span>Wie wirkst du<br>auf andere?</span></div><div class="fuss"><span>CLAUDIA CONEN</span></div></div></article></div></div>
 
 <section class="produkt"><div class="w">
  <div class="pz">
